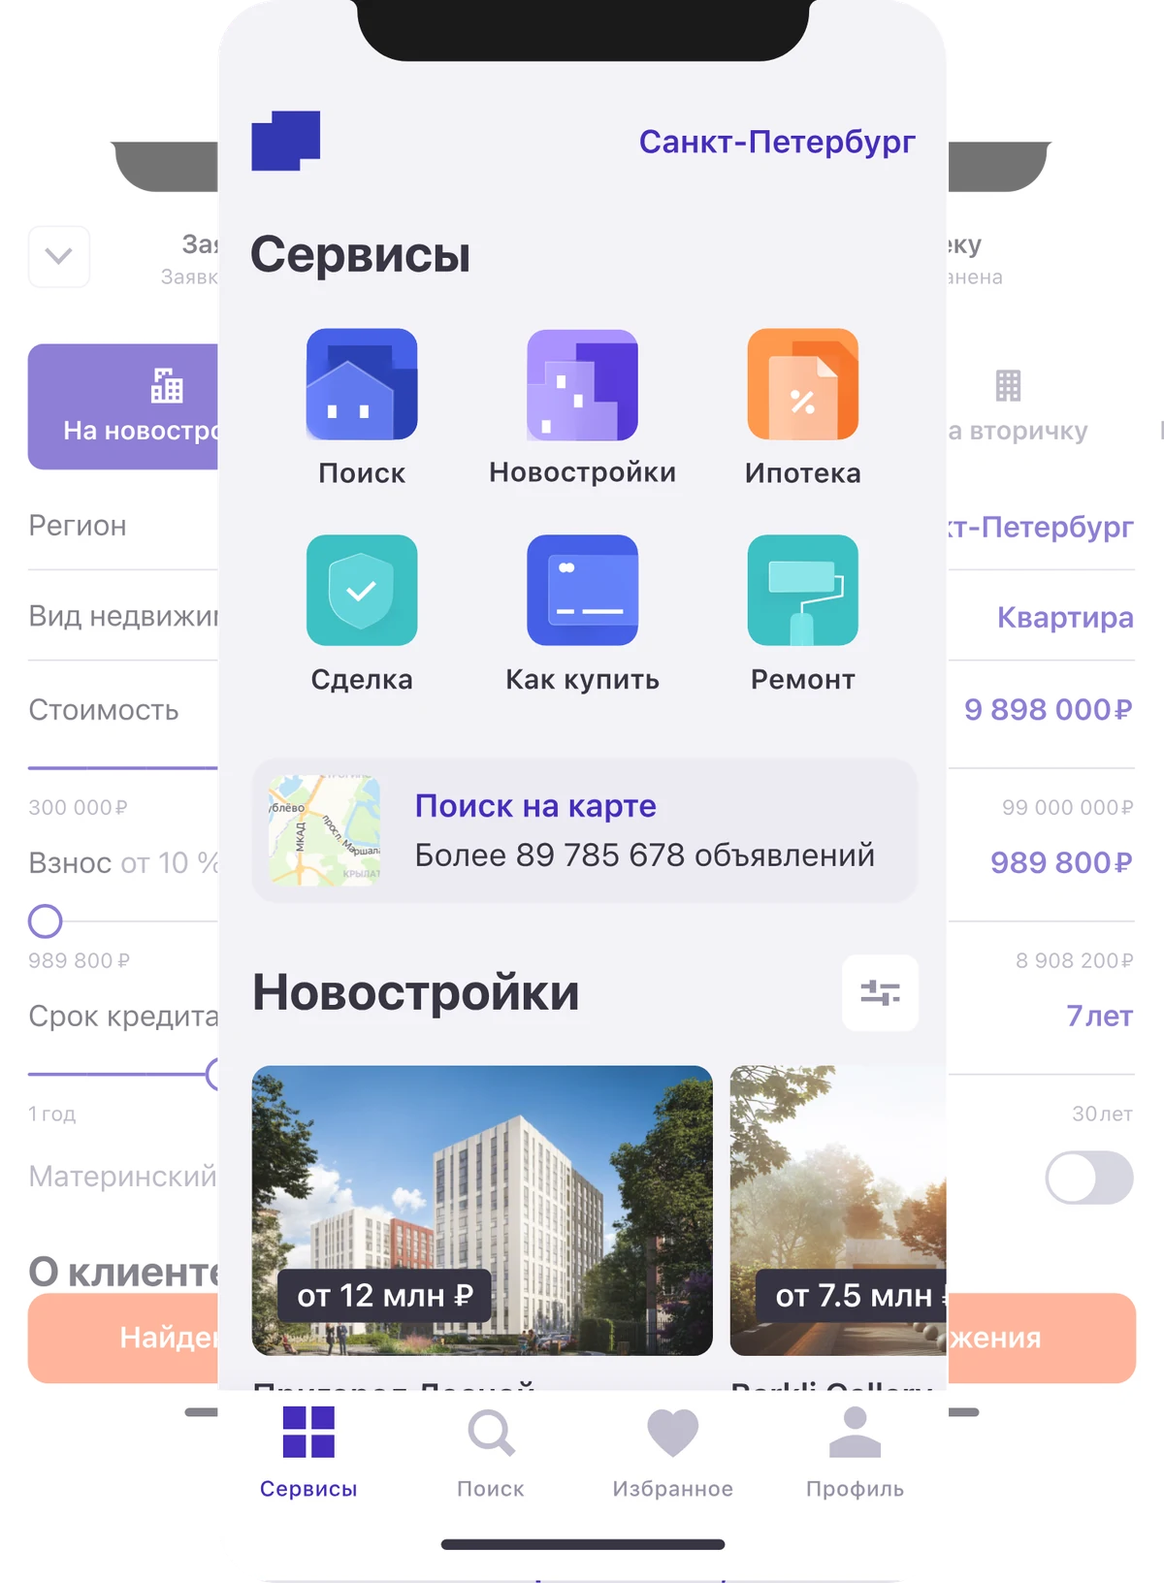
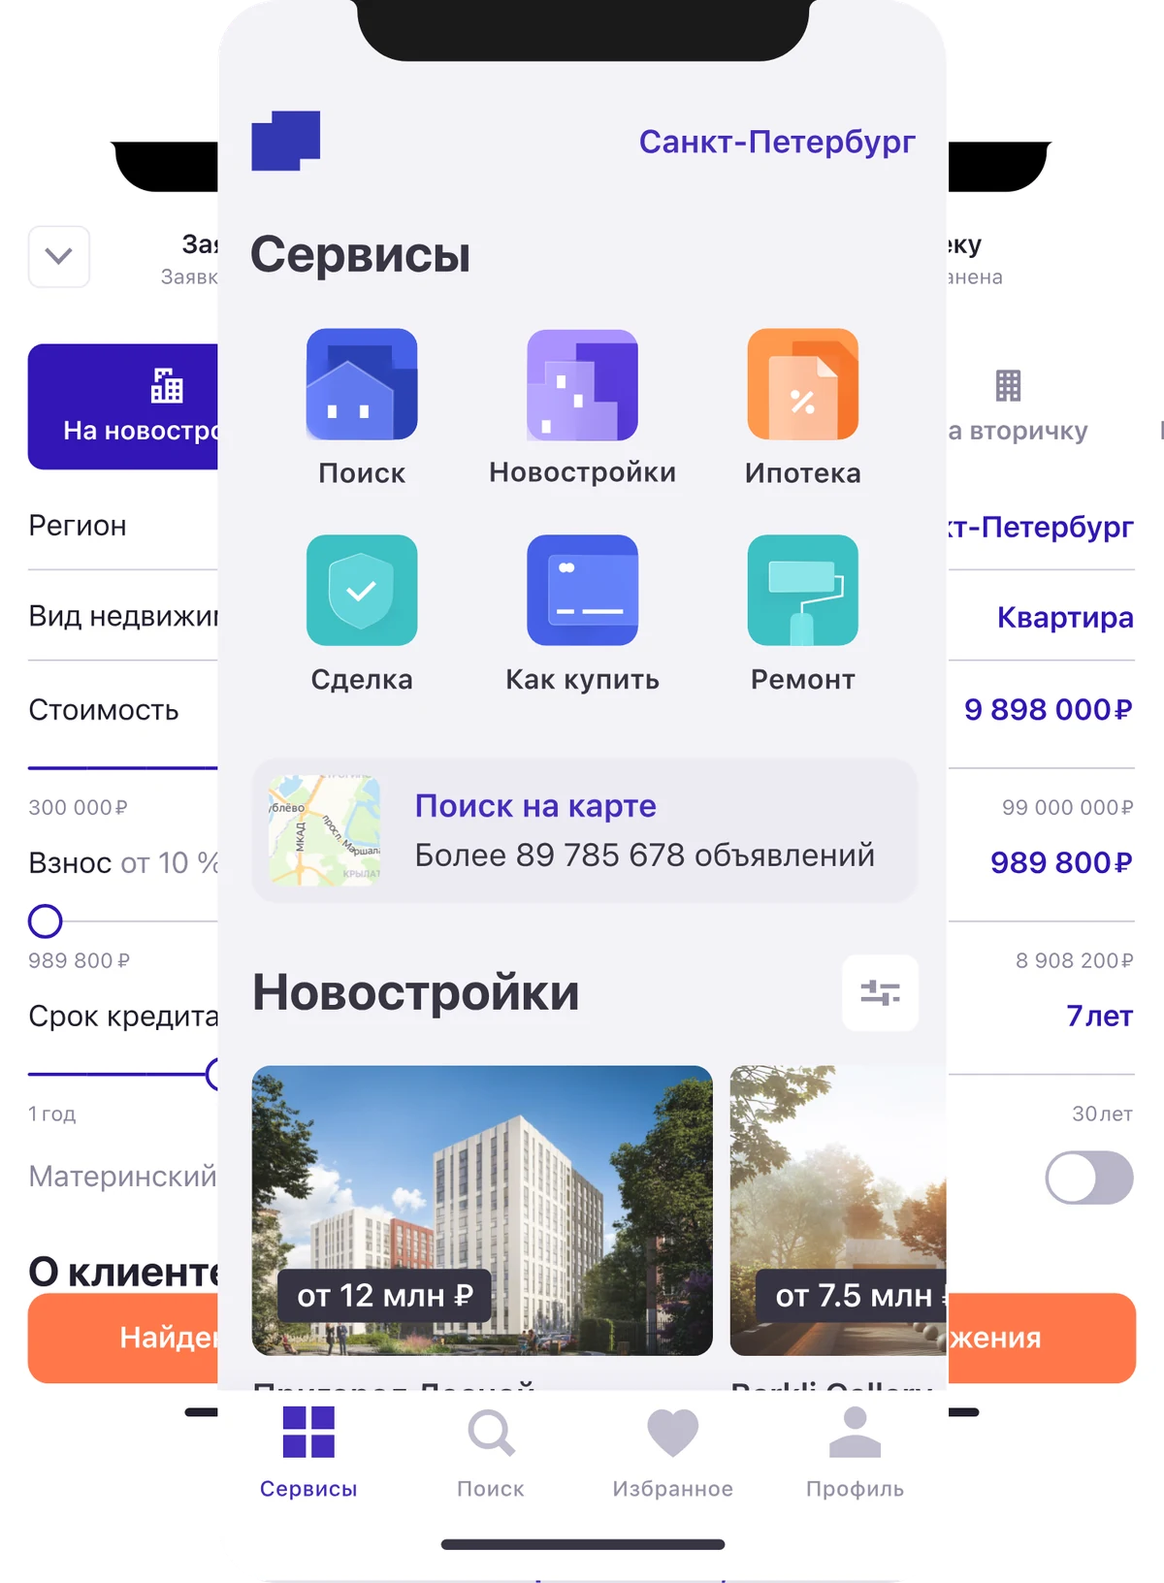
Metr Kvadratny image: side screens fully opaque
Claude-Session: https://claude.ai/code/session_0119GZRZJ2E6EHHBXrJoVv6L

diff --git a/CLAUDE.md b/CLAUDE.md
@@ -162,14 +162,14 @@ pnpm deploy:yandex
 - Наведение на плитку (только мышь): приподнимается на 10px (через `top` — GSAP держит transform/translate инлайном), тень, заливка плотнее (50% → 75%, `@property --tile-bg-opacity`), листья принта медленно разворачиваются, картинка подаётся вперёд. Наведение на портрет — подмигивание: кадр `public/images/portrait-wink-{600,860}.webp` (закрыт глаз справа на фото: веко «опущено» сдвигом пикселей + мягкая линия ресниц) мелькает 0.6с; зона наведения — ровно круг с обводкой (у `.hero__portrait` `pointer-events: none`, ловит только `.hero__portrait-ring` со скруглением 50%; голова над кругом не ловит)
 - Hero: заголовок «Продуктовый дизайнер и многое другое» / «Product designer and much more» + подпись «Проектирую архитектуру и ежедневно работаю над продуктовыми задачами… от идеи и исследования до дизайна, прототипирования и кода» (`home.intro.*` в `ui.ts`; на мобиле блок hero `min-height: 100dvh` с отступом под шапку — если контент выше экрана, растёт вниз, а не заезжает под шапку), тени — одно семейство, интенсивность убавлена на 30%, затем ещё на 20%: заголовок `--hero-text-shadow` (0 4px 16px, чёрный 14.4% — потом +20%), подпись `--hero-lead-shadow` (та же, трижды по +20% — 20.8%), у чипсов тени нет (убрана по просьбе), портрет `--hero-portrait-shadow` (drop-shadow 0 10px 28px, 12%, по контуру круга и головы), логотип и планета в шапке — своя маленькая `--header-shadow` (drop-shadow 0 1px 3px, 16%, на всей прозрачной шапке), под подписью — чипсы с направлениями работы (`home.intro.chip.1–6`: Продуктовый дизайн, Построение процессов вокруг дизайна, Внедрение ИИ, Работа с аналитикой и конкурентами, Управление командой и повышение её эффективности, Разработка дизайн-систем) — чипс обычно в одну строку, текст переносится внутри таблетки только если она шире колонки (узкие экраны, `text-wrap: balance`): токены `--text-chip`, `--chip-pad-*`, `--chip-gap`; — **выбран белый вариант** (почти белая плотная таблетка `rgb(255 255 255 / 0.88)`, белая обводка 90%, тёмный текст `--color-text`, без тени; ширина блока чипсов до 52rem — «Работа с аналитикой…» и «Управление командой…» в одном ряду на экранах от ~1680px, уже — колонка физически уже); отклонены: прозрачные-стеклянные (первый вариант), цветной градиент, цветные обводки; растворяются вместе с текстом, прижат к левой линии `--gutter`, по вертикали — на 20px выше центра экрана (`top: -20px` у `.hero__content`, портрет остаётся по центру)
 - Второй слайд: фон hero липкий (`.hero__bg`, sticky) на оба слайда. Сцена скролла — в `Hero.astro` (ScrollTrigger, scrub). Длина сцены = путь плиток от старта (`--tiles-start` 100dvh, низ экрана) до финальной точки: верх плиток на `--tiles-final-top` (100px от верха экрана). Плитки (`src/components/Tiles.astro`, 2 × 2, на мобиле в колонку, пропорция `--tile-ratio` 4:4.5 (на мобиле 3:4.5), зазор `--tile-gap`: мобила 52px, планшет (768–1279) 72px, десктоп 100px, от линии до линии сетки; внутри — заголовок, подпись и условная картинка до нижнего края, проекты `tiles.1–4.title` в `ui.ts`: Альфа Банк / Alfa-Bank, Betting, Quantori, Метр квадратный / Metr Kvadratny; подпись пока заглушка `tiles.placeholder.lead`) подтягиваются по очереди слева направо (`STAGGER` 0.15 сцены между колонками; каждая следующая колонка стартует ниже на `COL_DROP` 240px; ждущая колонка держится на месте экрана) и проявляются: плашка (`.tiles__plate`) opacity 0.1 → 1, заливка — цвет плитки (`--tile-color-1…4`: крем #f8e8ce, мята #def5f0, пудра #fae9e3, лаванда #e8ebff) с 50% прозрачности (`--tile-bg-opacity`), у каждой плашки своя крупная абстрактная композиция «по мотивам» растений на всю плашку, уходит за края (`PRINTS` в `Tiles.astro`, все в стиле утверждённой плитки 2 — крупные листья с прожилками крест-накрест: 1 — веер из трёх листьев из левого нижнего угла, 2 — два листа крест-накрест (эталон), 3 — два листа из верхних углов, 4 — огромный лист по диагонали и второй поперёк; заливка `--tile-print-fill`, контур `--tile-print`). Мелкие повторяющиеся узоры не использовать — пользователь просил крупные мазки, без «детского сада»; содержимое (`.tiles__body`: заголовок, подпись, картинка) — с запаздыванием `BODY_LAG` и своим параллаксом `BODY_SHIFT`, opacity 0 → 1, в финале без прозрачности. Подтягивание, параллакс и проявление идут до самого финала сцены (`ALIGN` = 1): в финале плитки выровнены по верху на 100px. Прилипание (свой snap в `Hero.astro`, не `lenis/snap` — тот решает по недоехавшей позиции): после полной остановки скролла ряд плиток в пределах `SNAP_RANGE` (50% экрана) доводится верхом до 100px (0.9с, ease-out cubic); **hero тоже с доводкой**: между первым слайдом и первым рядом плиток скролл не останавливается — после остановки доезжает туда, куда крутили (вниз — к плиткам, вверх — к началу страницы), без ограничения `SNAP_RANGE`; снизу у `.tiles` запас места, чтобы и последний ряд мог встать на 100px, градиент полностью монохромный (`grayscale`). Текст hero реагирует на скролл с задержкой: первые `TEXT_HOLD` (15% экрана) стоит на месте, потом плавно трогается (ease power1.out, без рывка); растворяется (1 → 0) и исчезает, когда целиком уходит под шапку
-- **Картинки проектов в плитках** (`TILE_IMAGES` в `Tiles.astro`, ключ `tiles.N.title` → имя файла): вместо серой заглушки — `public/images/cases/<имя>-{600,1200}.webp` (с прозрачностью, `srcset`), на всю область картинки до нижнего края плитки, `object-fit: cover`, прижата к верху по центру. Пользователь присылает SVG через GitHub (`public/images`) — переименовываем латиницей, исходник кладём в `design/cases/` (в сборку не попадает; SVG бывают по 10 МБ из-за вшитых PNG), экспортируем в WebP (Chromium, 3x → 600 и 1200 px). Есть: Метр квадратный (`metr-kvadratny`, макет приложения)
+- **Картинки проектов в плитках** (`TILE_IMAGES` в `Tiles.astro`, ключ `tiles.N.title` → имя файла): вместо серой заглушки — `public/images/cases/<имя>-{600,1200}.webp` (с прозрачностью, `srcset`), на всю область картинки до нижнего края плитки, `object-fit: cover`, прижата к верху по центру. Пользователь присылает SVG через GitHub (`public/images`) — переименовываем латиницей, исходник кладём в `design/cases/` (в сборку не попадает; SVG бывают по 10 МБ из-за вшитых PNG), экспортируем в WebP (Chromium, 3x → 600 и 1200 px). Есть: Метр квадратный (`metr-kvadratny`, макет приложения; боковые экраны в исходнике были с прозрачностью 55% — по просьбе пользователя сделаны 100%)
 - **Годы работы над названием** во всех карточках (`.tiles__year`, кегль как у подписи `--text-tile-lead`). **Все карточки — по убыванию дат** (списки `tiles` и `more` в `Tiles.astro`): Альфа Банк 2024–2026, Betting 2023–2024, Quantori 2022–2023, Метр квадратный 2020–2022 → ниже MAPS.ME 2019–2020, BelkaCar 2018–2019, Revo Технологии / Revo Technologies 2017–2018, Hyperboloid Agency 2015–2017, Лига Ставок 2014–2015, LEXION development 2012–2014.
 - **Ещё 6 карточек под основными плитками** (`.tiles__more`, в том же `Tiles.astro`): год, название (`tiles.5–10.title`: BelkaCar, MAPS.ME, Revo Технологии, LEXION development, Лига Ставок, Hyperboloid Agency) и подпись, без картинки; 3 в ряд на десктопе (≥1280), 2 на планшете, 1 на мобиле, зазор `--tile-gap`, ширина — от полей и зазора; высота не меньше ширины × `--tile-small-ratio` (0.75) и растёт под текст, ряды одной высоты; заголовок `--text-tile-small-title`. В сцене появления не участвуют (сцена берёт только `:scope > .tiles__item`), но доводка скролла работает и для их рядов. Наведение — как у основных плиток.
 - Бегущая строка с логотипами (`LOGOS` в `Tiles.astro`) — между рядами плиток (после второй; на мобиле между 2-й и 3-й), на всю ширину экрана, едет влево без конца (160с на цикл, края растворяются маской, при reduced motion стоит). Логотипы — SVG в `public/logos/` (пользователь загружает через GitHub, сеть окружения на сайты компаний не пускает; файлы переименованы латиницей, viewBox обрезан по содержимому), **в фирменных цветах** (монохром пользователь отклонил); высота строки — по самому высокому логотипу, логотипы не обрезаются; `scale` у каждого — оптическая подгонка высоты. Высота `--marquee-logo-h`, зазор `--marquee-gap`; отступ от строки до карточек сверху и снизу — половина `--tile-gap` (50/36/26px). Компании: Альфа Банк, Quantori, BelkaCar, MAPS.ME, Метр квадратный, Parity, LEXION development, 2ГИС, Лига Ставок, Brighty (только иконка, без надписи). Логотипы — ссылки на сайты компаний (`url` в `LOGOS`, новая вкладка; у MAPS.ME ссылки пока нет), строка встаёт на паузу только под курсором (и при фокусе с клавиатуры — `:focus-visible`; не `:focus-within`, иначе после клика и возврата со стороннего сайта строка стоит; после клика по логотипу ставится `data-resumed` — лента едет сразу, даже если курсор остался над ней, пауза под курсором снова включается после ухода курсора с ленты), логотип под курсором чуть увеличивается; в фокус с клавиатуры попадает только первый набор (повторы `tabindex=-1`)
 - **Слайд «Обо мне»** (`src/components/About.astro`, в слоте hero после плиток — на том же сером фоне): заголовок `about.title` (кегль `--text-display`) и 4 абзаца `about.p1–4` в `ui.ts` (RU — перевод текста пользователя, EN — его текст, вычитан), текст `--text-about`, ширина до 52rem; ключевые фразы — тёмным маркером (`<mark>`: фон `--color-text`, белый текст, `box-decoration-break: clone`), в строках размечены `**так**`. Как у плиток: верх слайда на `--tiles-final-top`, доводка скролла к нему (`data-snap` → точка в snap Hero.astro). **Фон снова цветной на «Обо мне»**: монохром фона — одна функция от скролла (`grayAt` в Hero.astro, `ScrollTrigger.create` + `bg.style.filter`): к плиткам 0 → 1, а с момента, когда слайд показывается снизу, 1 → 0 — полностью цветной, когда слайд встал на место
 - `site` в `astro.config.mjs` — заглушка, заменить на реальный домен
 
-Задеплоено (2026-09-28, последний — картинка в плитке «Метр квадратный»; + зеркало Яндекс): https://vadimpianov.pages.dev — `/ru/`, `/en/` отдают 200, `/` редиректит (302) по cookie/стране.
+Задеплоено (2026-09-28, последний — картинка «Метр квадратный» без прозрачности; + зеркало Яндекс): https://vadimpianov.pages.dev — `/ru/`, `/en/` отдают 200, `/` редиректит (302) по cookie/стране.
 
 ## Следующий шаг
 
